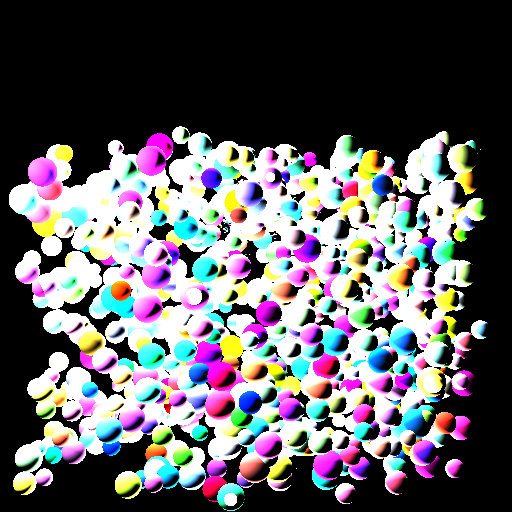
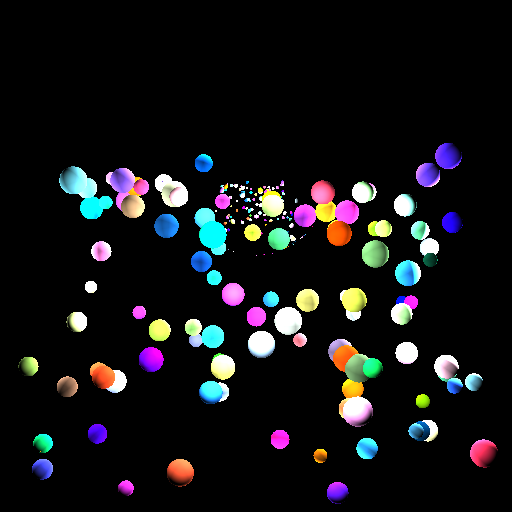
retrait de commentaires

diff --git a/Projet_SI_1/Projet_SI_1/Projet_SI_1.cpp b/Projet_SI_1/Projet_SI_1/Projet_SI_1.cpp
@@ -1,6 +1,3 @@
-// Projet_SI_1.cpp : Ce fichier contient la fonction 'main'. L'exécution du programme commence et se termine à cet endroit.
-//
-
 #include <iostream>
 #include <FreeImage.h>
 #include <conio.h>
@@ -26,7 +23,7 @@ std::mt19937 gen(rd());
 
 int profondeurMax = 3;
 
-int nbSpheres = 2000;
+int nbSpheres = 101;
 std::vector<Sphere> spheres;
 
 std::vector<Light> lights;
@@ -197,53 +194,7 @@ int main()
 	Vec3<float> colorSphere = { 1,1,1 };
 	Vec3<float> pointCamera = {256,256,-1200};
 
-	////box
-	//float rBoxRear = 100000;
-	//float xBoxRear = 256;
-	//float yBoxRear = 256;
-	//float zBoxRear = 101000;
-	//Vec3<float> centerBoxRear = { xBoxRear, yBoxRear, zBoxRear };
-	//Sphere sphereRear(centerBoxRear, rBoxRear, colorSphere,0);
-	//std::cout << centerBoxRear << rBoxRear << std::endl;
-	//spheres.push_back(sphereRear);
-
-
-	//float rBoxLeft = 100000;
-	//float xBoxLeft = -99500;
-	//float yBoxLeft = 256;
-	//float zBoxLeft = 10000;
-	//Vec3<float> centerBoxLeft = { xBoxLeft, yBoxLeft, zBoxLeft };
-	//Sphere sphereLeft(centerBoxLeft, rBoxLeft, colorSphere - Vec3<float>{1.0f, 0.0f, 0.0f},0);
-	//std::cout << centerBoxLeft << rBoxLeft << std::endl;
-	//spheres.push_back(sphereLeft);
-
-	//float rBoxRight = 100000;
-	//float xBoxRight = 100012;
-	//float yBoxRight = 256;
-	//float zBoxRight = 10000;
-	//Vec3<float> centerBoxRight = { xBoxRight, yBoxRight, zBoxRight };
-	//Sphere sphereRight(centerBoxRight, rBoxRight, colorSphere - Vec3<float>{0.0f, 1.0f, 0.0f},0);
-	//std::cout << centerBoxRight << rBoxRight << std::endl;
-	//spheres.push_back(sphereRight);
-
-	//float rBoxBottom = 100000;
-	//float xBoxBottom = 256;
-	//float yBoxBottom = 100012;
-	//float zBoxBottom = 10000;
-	//Vec3<float> centerBoxBottom = { xBoxBottom, yBoxBottom, zBoxBottom };
-	//Sphere sphereBottom(centerBoxBottom, rBoxBottom, colorSphere - Vec3<float>{0.0f, 0.0f, 1.0f},0);
-	//std::cout << centerBoxBottom << rBoxBottom << std::endl;
-	//spheres.push_back(sphereBottom);
-
-	//float rBoxTop = 100000;
-	//float xBoxTop = 256;
-	//float yBoxTop = -99500;
-	//float zBoxTop = 10000;
-	//Vec3<float> centerBoxTop = { xBoxTop, yBoxTop, zBoxTop };
-	//Sphere sphereTop(centerBoxTop, rBoxTop, colorSphere - Vec3<float>{0.0f, 0.0f, 1.0f},0);
-	//std::cout << centerBoxTop << rBoxTop << std::endl;
-	//spheres.push_back(sphereTop);
-
+	//Lumières
 	std::uniform_real_distribution<> disOffsetLight1(251, 261);
 	std::uniform_real_distribution<> disOffsetLightHeight1(567, 577);
 
@@ -267,18 +218,56 @@ int main()
 		Vec3<float> lightPos = { x,y,z };
 		lights.push_back(Light(lightPos, lightColor, lightIntensity));
 	}
-	std::uniform_real_distribution<> disOffsetLight3(-200, -190);
-	std::uniform_real_distribution<> disOffsetLightHeight3(467, 477);
+
+	std::uniform_real_distribution<> disOffsetLight3(251, 261);
+	std::uniform_real_distribution<> disOffsetLightHeight3(567, 577);
 
 	for (int i = 0; i < nbLightsPerSource; i++)
 	{
-		float x = disOffsetLight3(gen);
-		float y = disOffsetLightHeight3(gen);
+		float x = disOffsetLightHeight3(gen);
+		float y = disOffsetLight3(gen);
 		float z = disOffsetLight3(gen);
 		Vec3<float> lightPos = { x,y,z };
 		lights.push_back(Light(lightPos, lightColor, lightIntensity));
 	}
-	//nbSpheres += 4;
+
+	//std::uniform_real_distribution<> disOffsetLight4(251, 261);
+	//std::uniform_real_distribution<> disOffsetLightHeight4(-200, -190);
+
+	//for (int i = 0; i < nbLightsPerSource; i++)
+	//{
+	//	float x = disOffsetLightHeight4(gen);
+	//	float y = disOffsetLight4(gen);
+	//	float z = disOffsetLight4(gen);
+	//	Vec3<float> lightPos = { x,y,z };
+	//	lights.push_back(Light(lightPos, lightColor, lightIntensity));
+	//}
+
+	//std::uniform_real_distribution<> disOffsetLight5(251, 261);
+	//std::uniform_real_distribution<> disOffsetLightHeight5(567, 577);
+
+	//for (int i = 0; i < nbLightsPerSource; i++)
+	//{
+	//	float x = disOffsetLight5(gen);
+	//	float y = disOffsetLight5(gen);
+	//	float z = disOffsetLightHeight5(gen);
+	//	Vec3<float> lightPos = { x,y,z };
+	//	lights.push_back(Light(lightPos, lightColor, lightIntensity));
+	//}
+
+	//std::uniform_real_distribution<> disOffsetLight6(251, 261);
+	//std::uniform_real_distribution<> disOffsetLightHeight6(-200, -190);
+
+	//for (int i = 0; i < nbLightsPerSource; i++)
+	//{
+	//	float x = disOffsetLight6(gen);
+	//	float y = disOffsetLight6(gen);
+	//	float z = disOffsetLightHeight6(gen);
+	//	Vec3<float> lightPos = { x,y,z };
+	//	lights.push_back(Light(lightPos, lightColor, lightIntensity));
+	//}
+
+	//sphères 
 
 	std::uniform_real_distribution<> disPosSphere(10, 500);
 	std::uniform_real_distribution<> disHeightSphere(10, 380);
@@ -296,9 +285,11 @@ int main()
 		float a = 0;
 		Sphere s(c, r,col,a);
 		spheres.push_back(s);
-		std::cout << c << r << std::endl;
 	}
-	nbSpheres++; //sphere mirroir
+
+	//sphere mirroir
+	
+	nbSpheres++; 
 	{
 		float r = 128;
 		float x = 256;
@@ -309,8 +300,9 @@ int main()
 		float a = 1;
 		Sphere s(c, r, col, a);
 		spheres.push_back(s);
-		//std::cout << c << r << std::endl;
 	}
+
+
 
 	FreeImage_Initialise();
 
@@ -323,9 +315,6 @@ int main()
 	long nbRayonsLances[width] = { 0 };
 
 	std::chrono::steady_clock::time_point begin = std::chrono::steady_clock::now();
-
-
-
 
 	for (int j = 0; j < height; j++) {
 		
